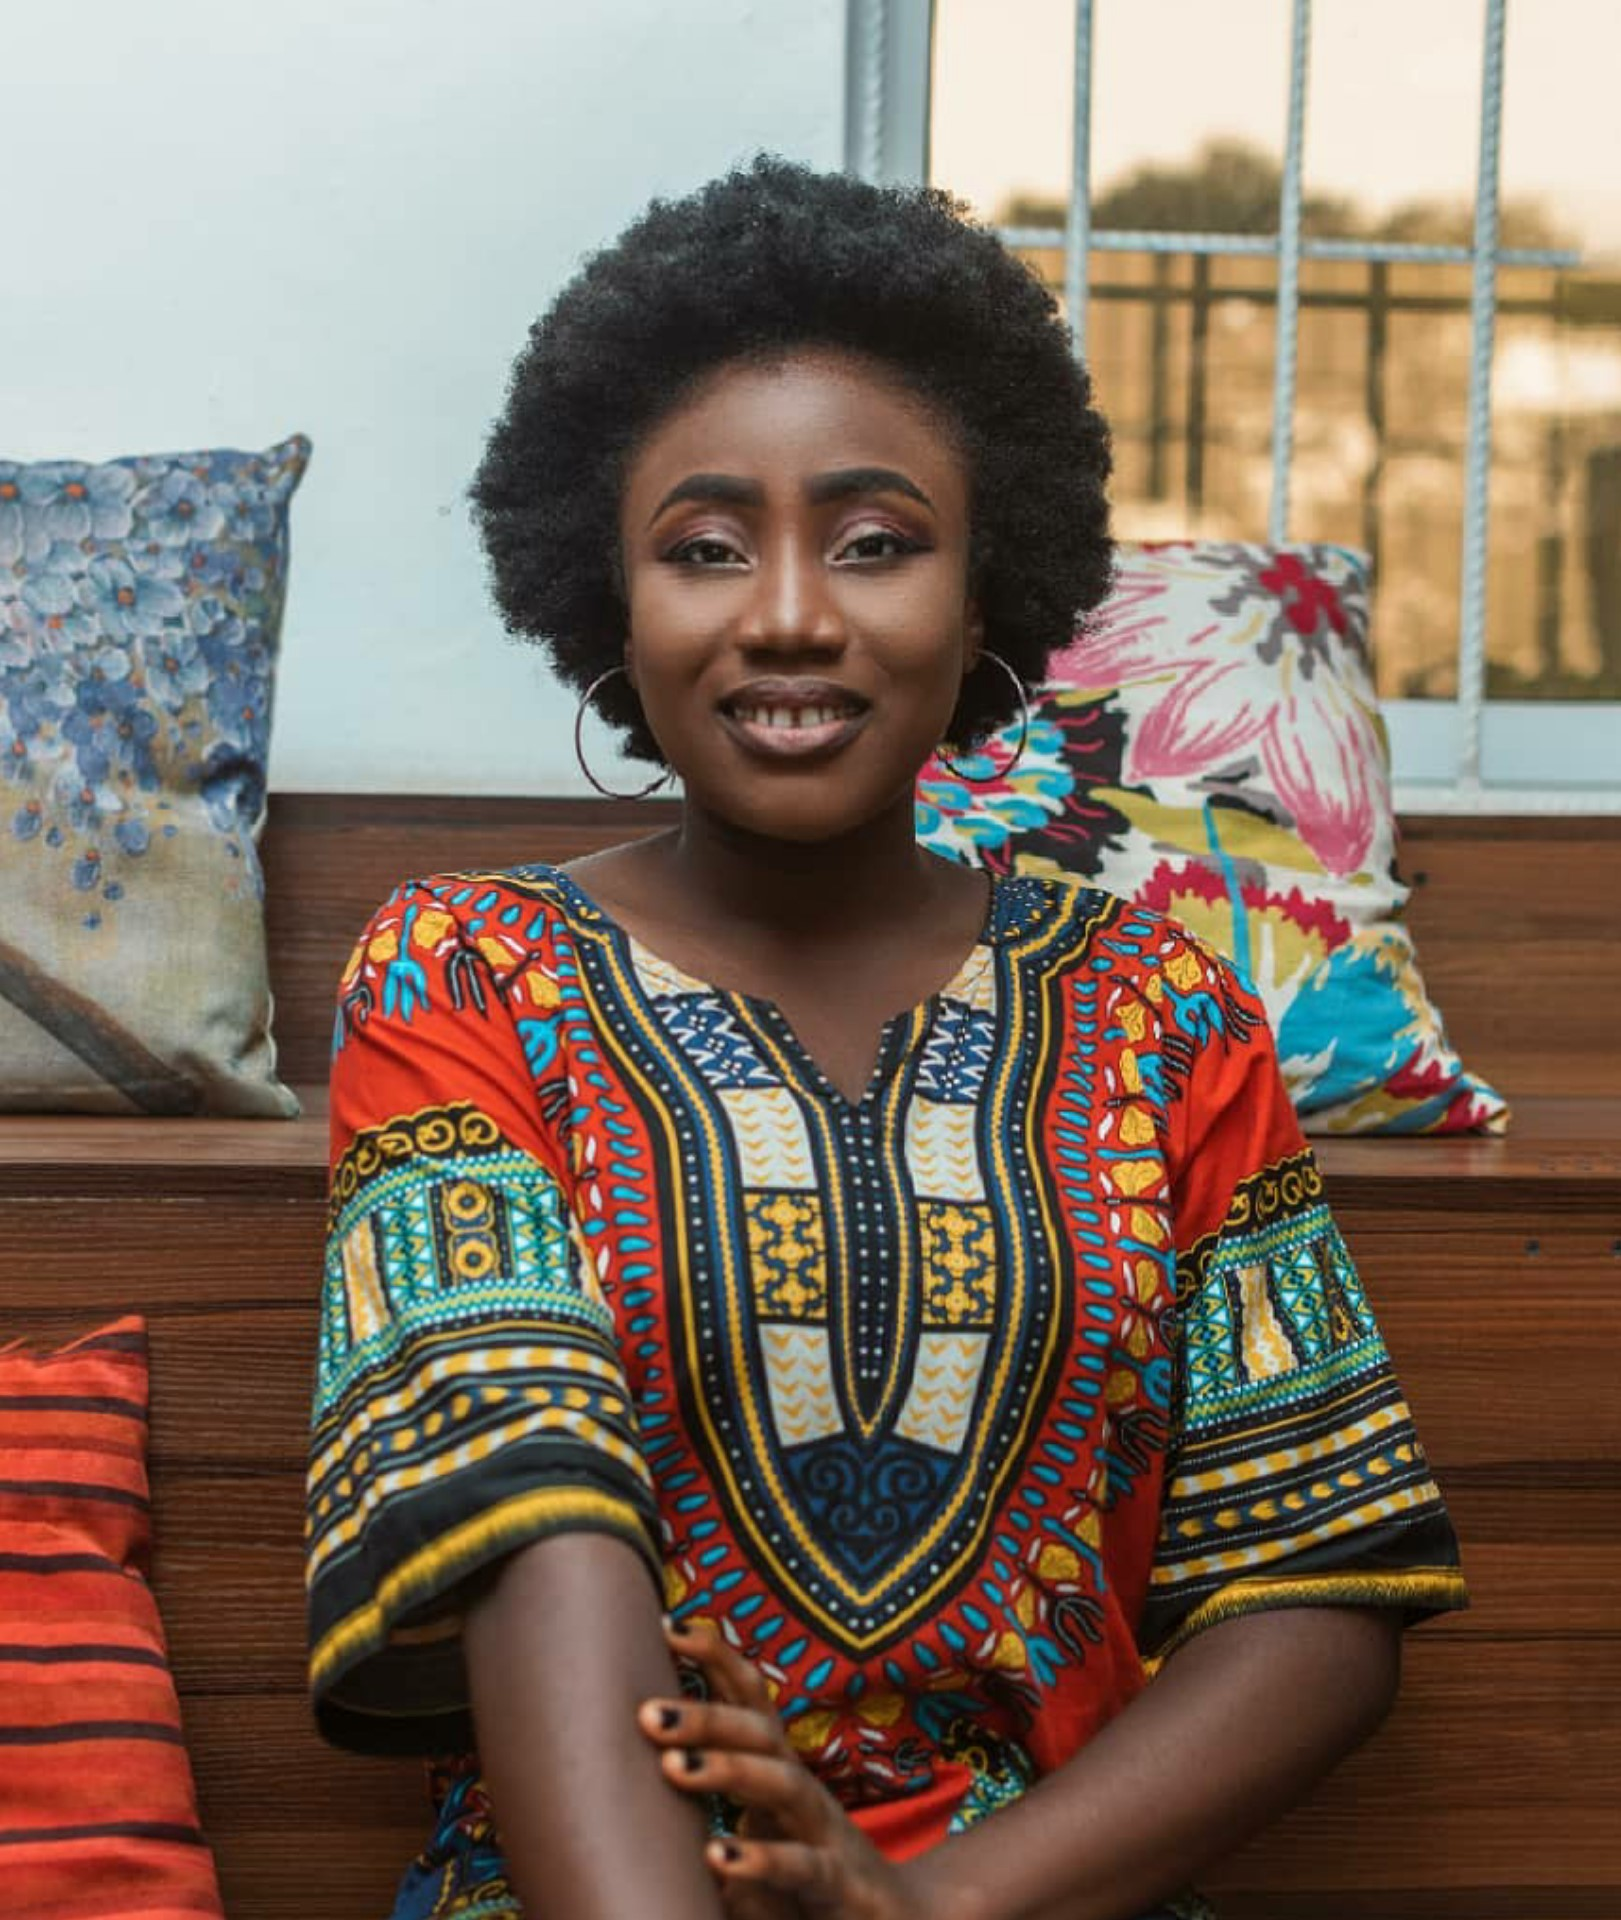
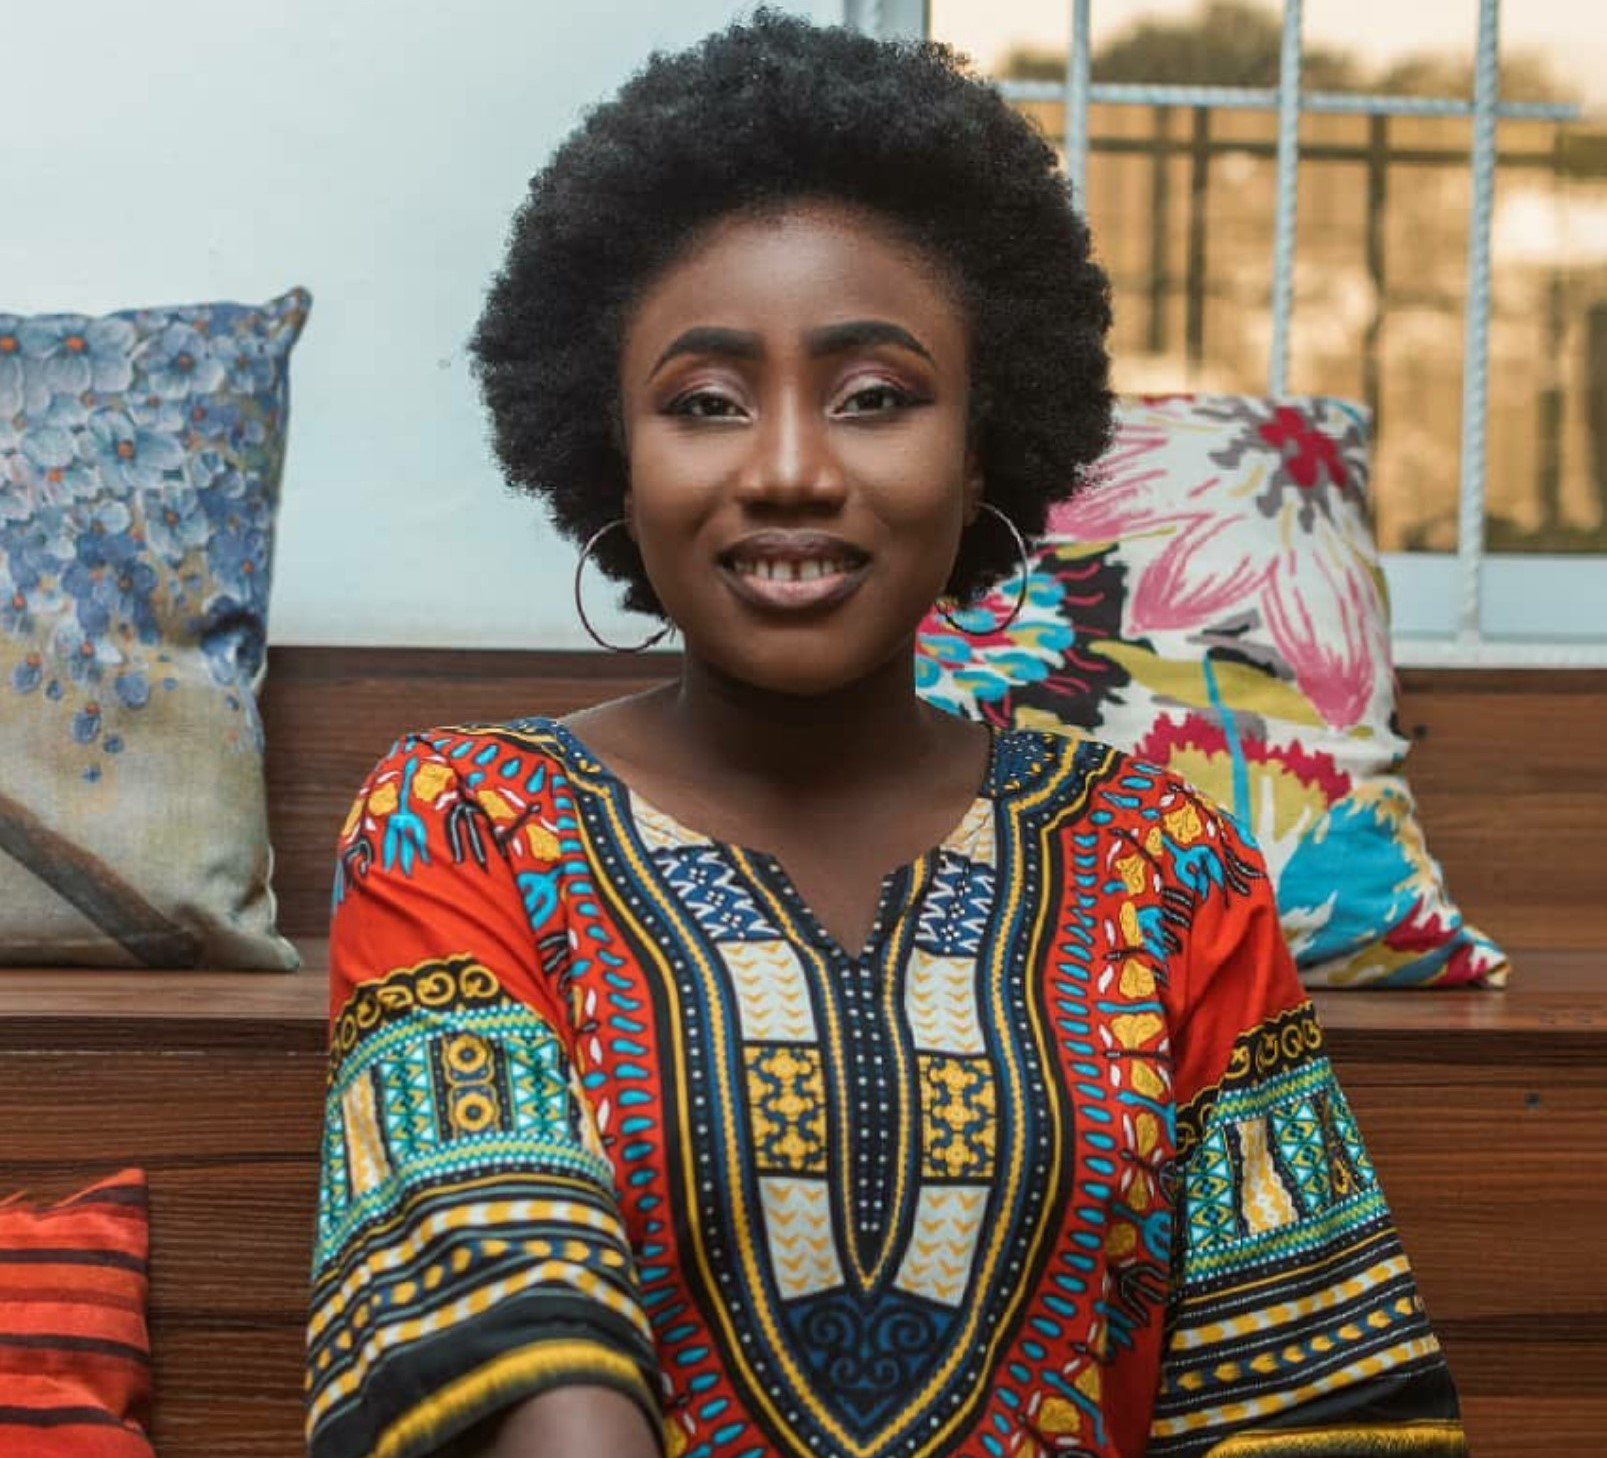
commit message

diff --git a/about.html b/about.html
@@ -150,7 +150,10 @@ Our leadership has been at the forefront of building a healthier world since the
       <div class="col">
         <img src="./images/alimi-ige.jpg" class="img-team ml-5" alt="">
         <h6 class="text-center mt-3 text-primary">Hadiqah Alimi-Ige</h6> 
-        <i class="fab fa-linkedin aboutsocials mr-2 "></i> <i class="fab fa-facebook-square "></i>
+       <a href="https://www.linkedlin.com/in/hadiqah-olayemi-alimi-ige-93140a91" 
+       target="_blank" rel="noopener noreferrer"> <i class="fab fa-linkedin aboutsocials mr-2 "></i> </a>
+       <a href="https://www.facebook.com/yemialimiige" 
+       target="_blank" rel="noopener noreferrer"><i class="fab fa-facebook-square "></i></a>
         <p class="text-center ourteamp"> A metallurgy and materials Engr, Entrepreneur and IT enthusiastist. Hadiqah Alimi-Ige, 
           A metallurgy and materials Engr, Entrepreneur and IT enthusiastist.
           I currently own clothing line for the medical industry. We produce surgical 
@@ -160,8 +163,11 @@ Our leadership has been at the forefront of building a healthier world since the
 
       <div class="col">
         <img src="./images/tawa.JPG" class="img-team ml-5" alt="">
-<h6 class="text-center mt-3 text-primary">Tawakalitu </h6>
-<i class="fab fa-linkedin aboutsocials mr-2 "></i> <i class="fab fa-facebook-square "></i>
+<h6 class="text-center mt-3 text-primary">Balogun Tawakalitu </h6>
+<a href="https://www.linkedlin.com/in/tawakalitu-balogun" 
+        target="_blank" rel="noopener noreferrer"><i class="fab fa-linkedin aboutsocials mr-2 "></i> </a>
+<a href="https://www.facebook.com/balogun.tawa" 
+       target="_blank" rel="noopener noreferrer"><i class="fab fa-facebook-square "></i></a>
 <p class="text-center ourteamp ">Tawakalitu is a graduate of Economics from the prestigious University of Lagos, 
   whose role as an ex sales analyst at Procter and Gamble, motivated her into pursuing 
   a career in the tech space. She is currently a designer and frontend developer.
@@ -171,7 +177,10 @@ Our leadership has been at the forefront of building a healthier world since the
       <div class="col">
         <img src="./images/vbede.jpg" class="img-team ml-5 mt-" alt="">
         <h6 class="text-center mt-3 text-primary">Vbede Ariemugbovbe </h6>
-        <i class="fab fa-linkedin aboutsocials mr-2 "></i> <i class="fab fa-facebook-square "></i>
+        <a href="https://www.linkedlin.com/in/oghenevbede-ariemugbovbe-8734471b7" 
+        target="_blank" rel="noopener noreferrer"><i class="fab fa-linkedin aboutsocials mr-2 "></i></a> 
+        <a href="https://www.facebook.com/vbede.ariemugbovbe" 
+       target="_blank" rel="noopener noreferrer"><i class="fab fa-facebook-square "></i></a>
         <p class="text-center ourteamp">I love to learn new things. I thrive on challenges and constantly 
           set goals for myself. And I always look for opportunities to do better.
 
@@ -181,7 +190,10 @@ Our leadership has been at the forefront of building a healthier world since the
       <div class="col mt-3">
         <img src="./images/onyediri.jpg" class="img-team ml-5" alt="">
         <h6 class="text-center mt-3 text-primary"> Onyediri Constancia</h6>
-        <i class="fab fa-linkedin aboutsocials mr-2 "></i> <i class="fab fa-facebook-square "></i>
+        <a href="https://www.linkedlin.com/in/constancia-onyediri-2a4b03115" 
+       target="_blank" rel="noopener noreferrer"><i class="fab fa-linkedin aboutsocials mr-2 "></i></a>
+       <a href="https://www.facebook.com/constancia.onyediri" 
+       target="_blank" rel="noopener noreferrer"><i class="fab fa-facebook-square "></i></a>
 <p class="text-center ourteamp"> Onyediri Constancia U. I am a graduate of Animal Science from University of Maiduguri. 
   I like to take up learning opportunities that will enhance my skills. I like challenging
    myself to take up creative solutions to solve problem. Thanks to Tech4dev for this 
@@ -198,7 +210,10 @@ Our leadership has been at the forefront of building a healthier world since the
       <div class="col">
         <img src="./images/iviemaryann.jpg" class="img-team ml-5" alt="">
         <h6 class="text-center mt-3 text-primary">Emwiongbon Ivie Maryann</h6> 
-        <i class="fab fa-linkedin aboutsocials mr-2 "></i> <i class="fab fa-facebook-square "></i>
+        <a href="https://www.linkedlin.com/in/ivie-maryann-emwiongbon" 
+        target="_blank" rel="noopener noreferrer"> <i class="fab fa-linkedin aboutsocials mr-2 "></i></a>
+        <a href="https://www.facebook.com/laydeeaann" 
+        target="_blank" rel="noopener noreferrer"><i class="fab fa-facebook-square "></i></a>
         <p class="text-center ourteamp "> A graduate of Computer Science, a computer Scientist/Analyst, 
           Tech Enthusiast, IT Personnel/Facilitator.
           I am passionate about technology and software development.
@@ -208,7 +223,10 @@ Our leadership has been at the forefront of building a healthier world since the
       <div class="col mt-3">
         <img src="./images/azeezat.jpg" class="img-team ml-5" alt="">
 <h6 class="text-center  mt-3 text-primary">Azeezat Abdulazeez </h6>
-<i class="fab fa-linkedin aboutsocials mr-2 "></i> <i class="fab fa-facebook-square "></i>
+<a href="https://www.linkedlin.com/in/azeezat-abdulazeez-8412241b0" 
+        target="_blank" rel="noopener noreferrer"><i class="fab fa-linkedin aboutsocials mr-2 "></i> </a>
+        <a href="https://www.facebook.com/azeezatajeyemi.abdulazeez" 
+        target="_blank" rel="noopener noreferrer"><i class="fab fa-facebook-square "></i></a>
 <p class="text-center ourteamp"> I'm a bioscience graduate who's passionate about research and IT. I intend to pursue a career
    that fuses  technology with science.
 </p>
@@ -217,7 +235,10 @@ Our leadership has been at the forefront of building a healthier world since the
       <div class="col">
         <img src="./images/glory.jpg" class="img-team ml-5 mt-" alt="">
         <h6 class="text-center mt-3 text-primary">Paul Uyino Glory</h6>
-        <i class="fab fa-linkedin aboutsocials mr-2 "></i> <i class="fab fa-facebook-square "></i>
+        <a href="https://www.linkedlin.com/in/uyino-p-042a50188" 
+       target="_blank" rel="noopener noreferrer"><i class="fab fa-linkedin aboutsocials mr-2 "></i> </a>
+        <a href="https://www.facebook.com/" 
+       target="_blank" rel="noopener noreferrer"><i class="fab fa-facebook-square "></i></a>
         <p class="text-center ourteamp">I am a web developer. I love to learn new things. I thrive on challenges and constantly 
           set goals for myself. And I always look for opportunities to do better.
 
@@ -227,10 +248,12 @@ Our leadership has been at the forefront of building a healthier world since the
       <div class="col mt-3">
         <img src="./images/fadeke 2.jpg" class="img-team ml-5" alt="">
         <h6 class="text-center mt-3 text-primary"> Adegboye Fadeke</h6>
-        <i class="fab fa-linkedin aboutsocials mr-2 "></i> <i class="fab fa-facebook-square "></i>
+        <a href="https://www.linkedlin.com/in/adegboye-fadeke-b18360147" 
+       target="_blank" rel="noopener noreferrer"><i class="fab fa-linkedin aboutsocials mr-2 "></i> </a>
+       <a href="https://www.facebook.com/fadeke.adegboye" 
+       target="_blank" rel="noopener noreferrer"><i class="fab fa-facebook-square "></i></a>
 <p class="text-center ourteamp"> I am Adegboye Fadeke. I am an aspiring software developer. I 
   have basic knowledge in Html,Css and JavaScript.
-  .
 </p>
       </div>
     </div>
@@ -242,7 +265,11 @@ Our leadership has been at the forefront of building a healthier world since the
       <div class="col">
         <img src="./images/bello.jpg" class="img-team ml-5" alt="">
         <h6 class="text-center mt-3 text-primary">Bello Hadijat P.ann</h6> 
-        <i class="fab fa-linkedin aboutsocials mr-2 "></i> <i class="fab fa-facebook-square "></i>
+        <a href="https://www.linkedlin.com/in/bello-hadijat-800b59187" 
+       target="_blank" rel="noopener noreferrer"><i class="fab fa-linkedin aboutsocials mr-2 "></i> 
+        </a>
+       <a href="https://www.facebook.com/bello.hadijat.1" 
+       target="_blank" rel="noopener noreferrer"><i class="fab fa-facebook-square "></i></a>
         <p class="text-center ourteamp "> An ambitious, proactive and result-driven young lady.
            I'm a health personnel, 
           internet researcher,  enthusiast web developer! l love what I do and always challeng
@@ -250,7 +277,7 @@ Our leadership has been at the forefront of building a healthier world since the
         </p>
       </div>
 
-      <div class="col">
+      <div class="col mt-3">
         <img src="./images/modupefolarin.jpg" class="img-team ml-5" alt="">
 <h6 class="text-center  mt-3 text-primary">Modupe Folarin</h6>
 <i class="fab fa-linkedin aboutsocials mr-2 "></i> <i class="fab fa-facebook-square "></i>
@@ -262,7 +289,11 @@ Our leadership has been at the forefront of building a healthier world since the
       <div class="col">
         <img src="./images/daud.jpg" class="img-team ml-5 mt-" alt="">
         <h6 class="text-center mt-3 text-primary">faozziyyah Daud </h6>
-        <i class="fab fa-linkedin aboutsocials mr-2 "></i> <i class="fab fa-facebook-square "></i>
+        <a href="https://www.linkedlin.com/in/faasamomowunmi-daud" 
+       target="_blank" rel="noopener noreferrer">
+        <i class="fab fa-linkedin aboutsocials mr-2 "></i></a>
+        <a href="https://www.facebook.com/faozziyyah.daud" 
+       target="_blank" rel="noopener noreferrer"> <i class="fab fa-facebook-square "></i></a>
         <p class="text-center ourteamp">I'm faozziyyah Daud opeyemi, I'm a front-end developer
                     I love to learn new things. I thrive on challenges and constantly 
           set goals for myself. And I always look for opportunities to do better.
@@ -285,13 +316,13 @@ Our leadership has been at the forefront of building a healthier world since the
   <!-- fourth roll -->
   <div class="container">
     <div class="row row-cols-1 row-cols-sm-2 row-cols-md-4">
-      <div class="col">
-      </div>
-
-      <div class="col">
+      <div class="col mt-3">
         <img src="./images/rose.jpg" class="img-team ml-5" alt="">
 <h6 class="text-center  mt-3 text-primary"> Rosemary Akamagwuna</h6>
-<i class="fab fa-linkedin aboutsocials mr-2 "></i> <i class="fab fa-facebook-square "></i>
+<a href="https://www.linkedlin.com/in/rosemary-akamagwuna" 
+       target="_blank" rel="noopener noreferrer"><i class="fab fa-linkedin aboutsocials mr-2 "></i> </a>
+<a href="https://www.facebook.com/rosemary.akamagwuna.1" 
+target="_blank" rel="noopener noreferrer"><i class="fab fa-facebook-square "></i></a>
 <p class="text-center ourteamp"> Rosemary is a go-getter, a passionate and driven young engineer with a background in 
   Petroleum Engineering and interests in Software Development, Cyber Security & Renewable Energy.
   Rosemary is also an Entrepreneur and is passionate about solving socio-economic problems using 
@@ -301,17 +332,21 @@ Our leadership has been at the forefront of building a healthier world since the
 
       <div class="col">
         <img src="./images/joy.jpg" class="img-team ml-5 mt-3" alt="">
-        <h6 class="text-center mt-3 text-primary">faozziyyah Daud </h6>
-        <i class="fab fa-linkedin aboutsocials mr-2 "></i> <i class="fab fa-facebook-square "></i>
+        <h6 class="text-center mt-3 text-primary"> Chiadika Joy  </h6>
+        <a href="https://www.linkedlin.com/in/joy-chiadika-00b5a2150" 
+       target="_blank" rel="noopener noreferrer"><i class="fab fa-linkedin aboutsocials mr-2 "></i> </a>
+        <a href="https://www.facebook.com/creame.joy" 
+       target="_blank" rel="noopener noreferrer"><i class="fab fa-facebook-square "></i></a>
         <p class="text-center ourteamp">Chiadika Joy is an environmentalist and sustainability activist with keen 
-          interest in building sustainable and climate-resilient communities in Nigeria and around Africa. With experience 
-          leading projects in Nigeria, Joy supports organisation to impl
-          capacity building programmes to tackle energy poverty, climate change and environmental sustainability.
+          interest in building sustainable and climate-resilient communities in Nigeria and around Africa.
           Joy presently serves a Sub-Saharan Africa representative on the global Ad-hoc steering committee of
            the UNESCO Youth Climate Action Network (YoU-CAN),  and is the Lead for Community Engagement at REES
             Africa  When not working, Chiadika Joy is actively volunteering with humanitarian focused 
             organisations and reading.
         </p>
+      </div>
+
+      <div class="col">
       </div>
 
       <div class="col">

diff --git a/main.css b/main.css
@@ -74,7 +74,7 @@ html,body{
     margin-left: 5%;
 }
 .img-team{
-    width: 40%;
+    width: 60%;
     border-radius: 7em;
     margin-left: 75%;
 }
